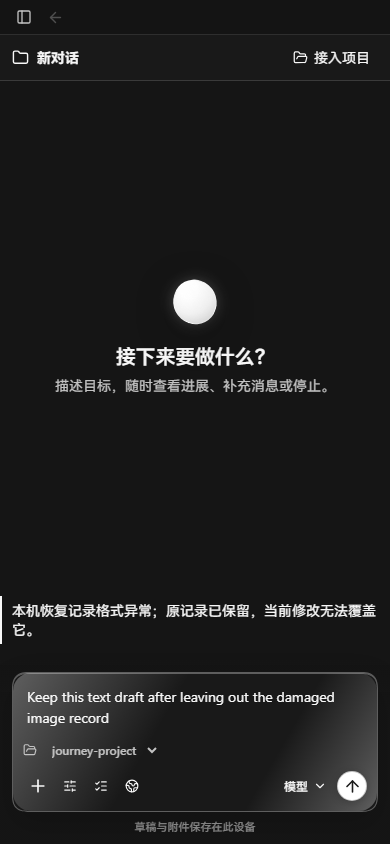
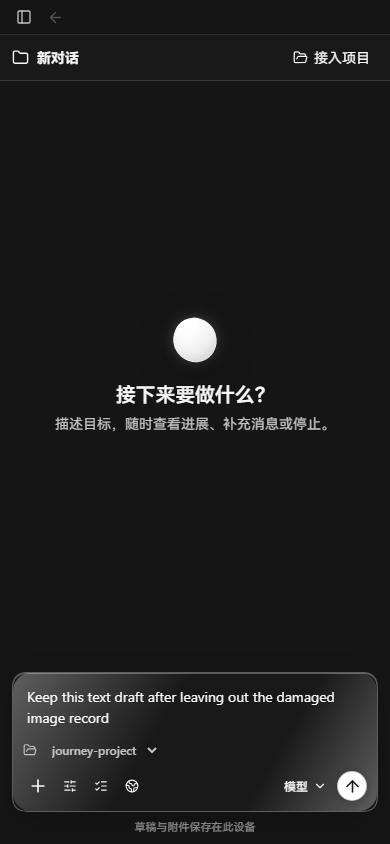
fix(chat): refresh creation load errors after storage repair

diff --git a/web/src/v2/recovery-creation.tsx b/web/src/v2/recovery-creation.tsx
@@ -129,6 +129,7 @@ export function useV2CreationRecovery(client: APIClient, workspaceID: string,
   const store = useV2RecoveryStore();
   const [intents, setIntents] = useState<CreationIntent[]>([]);
   const [observations, setObservations] = useState<Record<string, Observation>>({});
+  const [loadError, setLoadError] = useState("");
   const [error, setError] = useState("");
   const [refresh, setRefresh] = useState(0);
   const verifiedThreads = useRef(new Map<string, ThreadView>());
@@ -161,30 +162,39 @@ export function useV2CreationRecovery(client: APIClient, workspaceID: string,
     verifiedThreads.current.clear();
     setObservations({});
     setIntents([]);
-    let saved: CreationIntent[];
-    try {
-      saved = loadIntents().filter((intent) => intent.request.workspace_id === workspaceID);
+    setError("");
+    let stopRetry: (() => void) | undefined;
+    const load = () => {
+      let saved: CreationIntent[];
+      try {
+        saved = loadIntents().filter((intent) => intent.request.workspace_id === workspaceID);
+      } catch (failure) {
+        setLoadError(failure instanceof Error ? failure.message : invalid().message);
+        return false;
+      }
+      // Only a failed initial read listens to store changes. Once readable,
+      // typing and unrelated writes must not re-inspect unknown creations.
+      stopRetry?.(); stopRetry = undefined;
       setIntents(saved);
-      setError("");
-    } catch (failure) {
-      setError(failure instanceof Error ? failure.message : invalid().message);
-      return;
-    }
-    for (const intent of saved) {
-      void inspect(intent, abort.signal).then((thread) => {
-        if (abort.signal.aborted) return;
-        if (thread && !intent.projectSkills?.refs.length) verifiedThreads.current.set(intent.operationID, thread);
-        setObservations((current) => ({ ...current, [intent.operationID]: thread
-          ? { thread, message: t("已找到原对话。点击“打开原对话”查看首条消息的提交结果。", "The original conversation was found. Open it to check the first message submission.") }
-          : { message: t("本次查询尚未找到创建记录。可点击“重新核对”；再次发送相同内容时会先核对原请求。", "No creation record was found. Check again; resending the same content checks the original request first.") } }));
-      }).catch(() => {
-        if (!abort.signal.aborted) setObservations((current) => ({ ...current,
-          [intent.operationID]: { message: t("暂时无法核对原创建请求，原内容与请求标识已保留。请点击“重新核对”查看结果。", "Could not check the original creation request. Its content and identity are kept. Select Check again to read the result.") } }));
-      });
-    }
-    return () => abort.abort();
-    // Only mounting, changing scope or an explicit read-only refresh scans the
-    // journal. Preparing a new send must not schedule an extra creation action.
+      setLoadError("");
+      for (const intent of saved) {
+        void inspect(intent, abort.signal).then((thread) => {
+          if (abort.signal.aborted) return;
+          if (thread && !intent.projectSkills?.refs.length) verifiedThreads.current.set(intent.operationID, thread);
+          setObservations((current) => ({ ...current, [intent.operationID]: thread
+            ? { thread, message: t("已找到原对话。点击“打开原对话”查看首条消息的提交结果。", "The original conversation was found. Open it to check the first message submission.") }
+            : { message: t("本次查询尚未找到创建记录。可点击“重新核对”；再次发送相同内容时会先核对原请求。", "No creation record was found. Check again; resending the same content checks the original request first.") } }));
+        }).catch(() => {
+          if (!abort.signal.aborted) setObservations((current) => ({ ...current,
+            [intent.operationID]: { message: t("暂时无法核对原创建请求，原内容与请求标识已保留。请点击“重新核对”查看结果。", "Could not check the original creation request. Its content and identity are kept. Select Check again to read the result.") } }));
+        });
+      }
+      return true;
+    };
+    if (!load()) stopRetry = store.subscribePrefix?.("", load);
+    return () => { stopRetry?.(); abort.abort(); };
+    // Mount/scope/explicit refresh scan once; a failed load waits for storage
+    // repair. Preparing a send must not schedule an extra creation action.
     // eslint-disable-next-line react-hooks/exhaustive-deps
   }, [store, client, workspaceID, refresh]);
 
@@ -244,7 +254,7 @@ export function useV2CreationRecovery(client: APIClient, workspaceID: string,
   };
 
   const notice = !store ? null : <>
-    {error && <p className="v2-notice tone-warning" role="alert">{localUIMessage(error, t)}</p>}
+    {(loadError || error) && <p className="v2-notice tone-warning" role="alert">{localUIMessage(loadError || error, t)}</p>}
     {intents.map((intent) => <section key={intent.operationID} className="v2-notice" aria-label={t("上次创建的对话", "Previously created conversation")}>
       <p>{intent.request.goal.slice(0, 120)}</p>
       <p role="status">{observations[intent.operationID]?.message ?? t("原创建请求已保存，结果尚待确认。可点击“重新核对”查看记录。", "The original creation request is saved and its result is unconfirmed. Select Check again to read the record.")}</p>

diff --git a/web/src/v2/recovery-creation.test.tsx b/web/src/v2/recovery-creation.test.tsx
@@ -50,6 +50,72 @@ beforeEach(() => window.localStorage.clear());
 afterEach(() => { cleanup(); vi.restoreAllMocks(); });
 
 describe("first-message creation recovery", () => {
+  it("rechecks a failed global load after the last damaged image record is discarded and retains the unknown creation", async () => {
+    const client = fixture();
+    const view = mount(client);
+    const intent = prepare(view);
+    const damaged = ["image-upload:damaged-one", "image-upload:damaged-two"];
+    act(() => {
+      for (const key of damaged) { view.store().write(key, { damaged: true }); view.store().reject(key); }
+    });
+    fireEvent.click(screen.getByRole("button", { name: "重新核对" }));
+    await screen.findByRole("alert");
+    expect(client.inspectThreadCreationRequest).not.toHaveBeenCalled();
+    act(() => view.store().remove(damaged[0]));
+    expect(screen.getByRole("alert")).toHaveTextContent("格式异常");
+    expect(view.store().read(damaged[1], null)).toEqual({ damaged: true });
+    expect(view.store().read(`creation:${intent.operationID}`, null)).toEqual(intent);
+    expect(() => view.helper().prepare(request, request.goal, files, request.goal)).toThrow("格式异常");
+    expect(client.inspectThreadCreationRequest).not.toHaveBeenCalled();
+    act(() => view.store().remove(damaged[1]));
+    await waitFor(() => expect(screen.queryByRole("alert")).not.toBeInTheDocument());
+    await screen.findByText(/本次查询尚未找到创建记录/u);
+    expect(client.inspectThreadCreationRequest).toHaveBeenCalledTimes(1);
+    expect(client.inspectThreadCreationRequest.mock.calls[0].slice(0, 2)).toEqual([workspaceID, `v2-thread-create-${intent.operationID}`]);
+    expect(view.store().read(`creation:${intent.operationID}`, null)).toEqual(intent);
+    act(() => { view.store().write("draft:one", "keep typing"); view.store().write("draft:two", "more typing"); });
+    expect(client.inspectThreadCreationRequest).toHaveBeenCalledTimes(1);
+    expect(view.store().read(`creation:${intent.operationID}`, null)).toEqual(intent);
+    expect(client.createThread).not.toHaveBeenCalled();
+  });
+
+  it("keeps an invalid creation blocked after the damaged image record is discarded", async () => {
+    const client = fixture();
+    const view = mount(client);
+    const intent = prepare(view);
+    const altered = { ...intent, content: "does not match the original goal" };
+    act(() => {
+      view.store().write(`creation:${intent.operationID}`, altered);
+      view.store().write("image-upload:damaged", false);
+      view.store().reject("image-upload:damaged");
+    });
+    fireEvent.click(screen.getByRole("button", { name: "重新核对" }));
+    await screen.findByRole("alert");
+    act(() => view.store().remove("image-upload:damaged"));
+    await waitFor(() => expect(screen.getByRole("alert")).toHaveTextContent("原创建请求无法可靠核对"));
+    expect(view.store().read(`creation:${intent.operationID}`, null)).toEqual(altered);
+    expect(() => view.helper().prepare(request, request.goal, files, request.goal)).toThrow("原创建请求无法可靠核对");
+    expect(client.inspectThreadCreationRequest).not.toHaveBeenCalled();
+    expect(client.createThread).not.toHaveBeenCalled();
+  });
+
+  it("does not clear an explicit handoff failure or re-inspect unknown creations on draft writes", async () => {
+    const client = fixture();
+    client.inspectThreadCreationRequest.mockResolvedValue(found);
+    const view = mount(client);
+    const intent = prepare(view);
+    fireEvent.click(screen.getByRole("button", { name: "重新核对" }));
+    await screen.findByRole("button", { name: "打开原对话" });
+    const remove = vi.spyOn(Storage.prototype, "removeItem").mockImplementationOnce(() => { throw new Error("denied"); });
+    fireEvent.click(screen.getByRole("button", { name: "打开原对话" }));
+    await waitFor(() => expect(screen.getByRole("alert")).toHaveTextContent("无法移除"));
+    remove.mockRestore();
+    act(() => view.store().write("draft:typing", "an unrelated edit"));
+    expect(screen.getByRole("alert")).toHaveTextContent("无法移除");
+    expect(client.inspectThreadCreationRequest).toHaveBeenCalledTimes(1);
+    expect(view.store().read(`creation:${intent.operationID}`, null)).toEqual(intent);
+  });
+
   it("recovers reference-only MCP input with the same selection and message key after a lost create response", async () => {
     const client = fixture();
     client.createThread.mockRejectedValueOnce(new Error("response lost"));

diff --git a/web/e2e/image-upload-corrupt.spec.ts b/web/e2e/image-upload-corrupt.spec.ts
@@ -66,6 +66,7 @@ test("a damaged image upload record can be left out without deleting another dra
   await expect(page.getByRole("button", { name: "丢弃记录", exact: true })).toBeVisible();
   await page.getByRole("button", { name: "丢弃记录", exact: true }).click();
   await expect(page.getByRole("button", { name: "发送消息", exact: true })).toBeEnabled();
+  await expect(page.getByRole("alert")).toHaveCount(0);
   expect(await page.evaluate((key) => localStorage.getItem(key), injected.key)).toBeNull();
   expect(await page.evaluate((key) => localStorage.getItem(key), injected.goodKey)).toBe(injected.good);
   await expect(composer).toHaveValue(text);

diff --git a/docs/acceptance/2026-11-07-image-upload-recovery.md b/docs/acceptance/2026-11-07-image-upload-recovery.md
@@ -116,10 +116,16 @@ the viewport and that its center is not covered by another element.
 
 [After discarding](../images/image-upload-recovery/corrupt-record/after-discarded.png),
 the text remains and sending is enabled.
-The existing creation-recovery warning can remain until the next reload because
-that separate reader checks the entire recovery store on mount. This screenshot
-retains that observed warning; the journey verifies that reloading clears it
-and that the preserved draft can be sent.
+The creation-recovery reader retains its global storage check. If its initial
+read fails, it listens for storage changes until that check succeeds, then
+stops listening before inspecting the original creation requests. Discarding
+the last damaged image record clears that load warning immediately. Other
+damaged records and invalid creation records still block creation; unrelated
+draft writes do not repeat successful inspections or clear an explicit handoff
+failure. The real journey asserts zero alerts immediately after discard and
+then verifies the preserved draft after reload and a successful text send.
+[The previous stale-warning screenshot](../images/image-upload-recovery/corrupt-record/before-discarded-warning.png)
+is retained alongside the updated after-discard image.
 
 Verification: production build and strict TypeScript passed; focused recovery,
 image-input, draft-context and workspace-tabs tests passed (five files, 71
@@ -130,3 +136,10 @@ misbound operation keys, Workspace/Thread isolation, and two damaged records
 alongside a healthy pending image. OCR delegate resolved the changed production
 files; image input and recovery storage were read in full, composer around the
 move, registry and generated document by diff, and the changed tests in full.
+The creation-warning follow-up passed its three focused files (55 tests),
+including unknown-creation retention, a second damaged record, invalid-creation
+refusal and preservation of explicit operation errors. Both real image journeys
+and the production build passed again. The new unit assertion and real-browser
+zero-alert assertion both failed before this follow-up. OCR delegate selected
+the creation-recovery source; the effect and its load/prepare/handoff callers
+and changed tests were reviewed.
